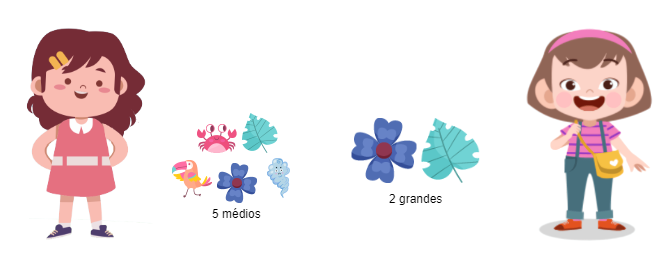
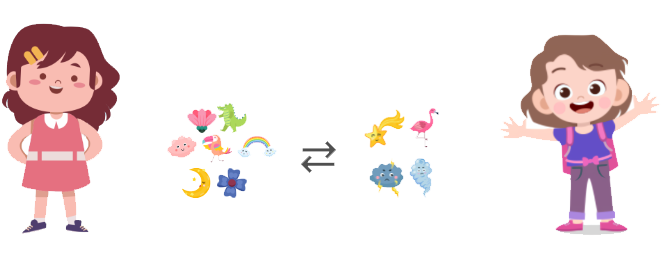
Trocando Adesivos v2

Changed region(s): [[0.0, 0.0882, 0.2417, 0.8824], [0.2417, 0.3824, 0.7251, 0.8235], [0.7553, 0.0882, 0.997, 0.8824]]

diff --git a/Desafios/Trocando Adesivos/presentation_two.py b/Desafios/Trocando Adesivos/presentation_two.py
@@ -15,11 +15,8 @@ class PresentationTwo(Scene):
             Group(Sticker(1, "./assets/031.png"), Sticker(1, "./assets/032.png"), Sticker(1, "./assets/028.png"))
                 .arrange(RIGHT, buff=0.3)
         ).arrange(DOWN, buff=0.2)
-        big_stickers = Group(
-            Sticker(1.4, "./assets/024.png"),
-            Group(Sticker(1.4, "./assets/025.png"), Sticker(1.4, "./assets/026.png"))
-                .arrange(RIGHT, buff=0.3)
-        ).arrange(DOWN, buff=0.2)
+        big_stickers = Group(Sticker(1.4, "./assets/025.png"), Sticker(1.4, "./assets/026.png"))
+        big_stickers.arrange(RIGHT, buff=0.3)
         Group(medium_stickers, big_stickers).arrange(DOWN, buff=2.5)
         arrow = Arrow(medium_stickers.get_bottom() + 0.1 * DOWN, big_stickers.get_top() + 0.1 * UP, color=LIGHT_RED_COLOR)
         natalia = Group(
@@ -28,16 +25,22 @@ class PresentationTwo(Scene):
             Tex("13 adesivos médios", color=TEXT_COLOR),
             Tex("3 adesivos grandes", color=TEXT_COLOR)
         ).arrange(DOWN, buff=0.4)
+        arrow_2 = Arrow(start=natalia.get_bottom(), end=natalia.get_bottom() + 1.5 * DOWN, color=LIGHT_RED_COLOR)
+        text = Tex("? adesivos grandes", color=TEXT_COLOR)
+        text.next_to(arrow_2, DOWN, 0.1)
 
-        self.play(AnimateFromLeft(medium_stickers))
+        self.play(AnimateFromLeft(medium_stickers), run_time=0.7)
         self.wait(1)
-        self.play(AnimateFromLeft(big_stickers))
+        self.play(AnimateFromLeft(big_stickers), run_time=0.7)
         self.wait(1)
         self.play(Write(arrow))
         self.wait(1)
-        self.play(AnimateToLeft(*self.mobjects))
+        self.play(AnimateToLeft(*self.mobjects), run_time=0.7)
         self.remove(*self.mobjects)
         self.play(AnimateFromLeft(natalia))
+        self.wait(2)
+        self.play(Write(arrow_2), run_time=0.7)
+        self.play(Write(text), run_time=0.7)
         self.wait(2)
         self.play(AnimateToLeft(*self.mobjects))
         self.remove(*self.mobjects)

diff --git a/Desafios/Trocando Adesivos/geogebra.py b/Desafios/Trocando Adesivos/geogebra.py
@@ -17,7 +17,7 @@ class Geogebra(Scene):
         text2 = Tex(r"\textbf{Trocando Adesivos II}", color=DARK_BLUE_COLOR)
         text2.scale(1.2)
         img2 = ImageMobject("./assets/trocando-adesivos-ii.png")
-        img2.scale(1.3)
+        img2.scale(0.8)
         link2 = Tex(r"\textbf{Link: bit.ly/qcm-adesivos2}", color=DARK_BLUE_COLOR)
         group1 = Group(text1, img1, link1)
         group1.arrange(DOWN, buff=0.5)

diff --git a/README.md b/README.md
@@ -24,4 +24,4 @@
 | Subida Escorregadia | Não |
 | Tabuleiro Colorido | Não |
 | Troca de Etiquetas | Sim |
-| Trocando Adesivos | Não |
+| Trocando Adesivos | Sim |
